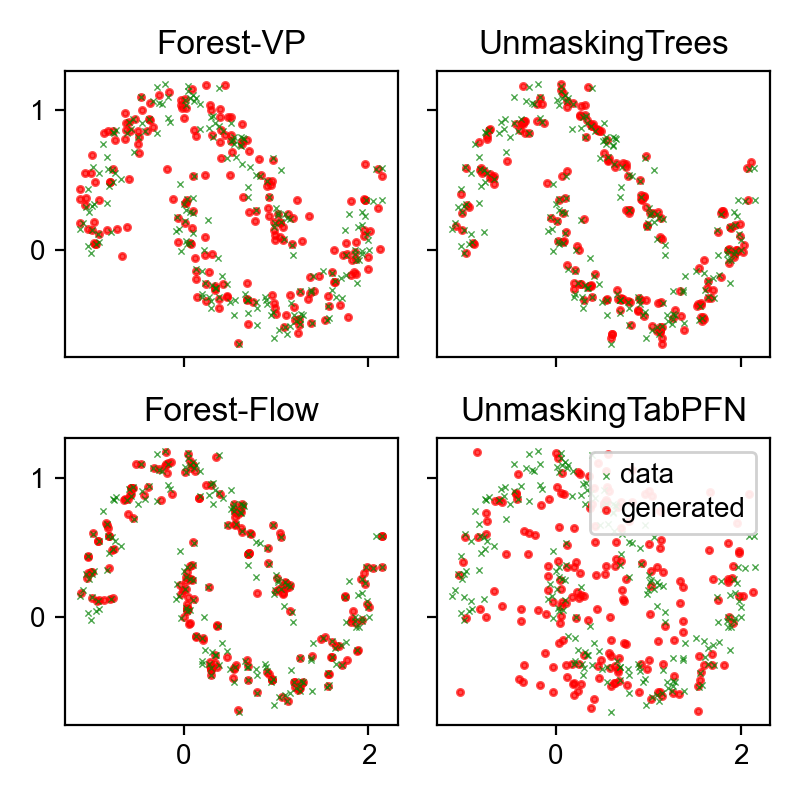
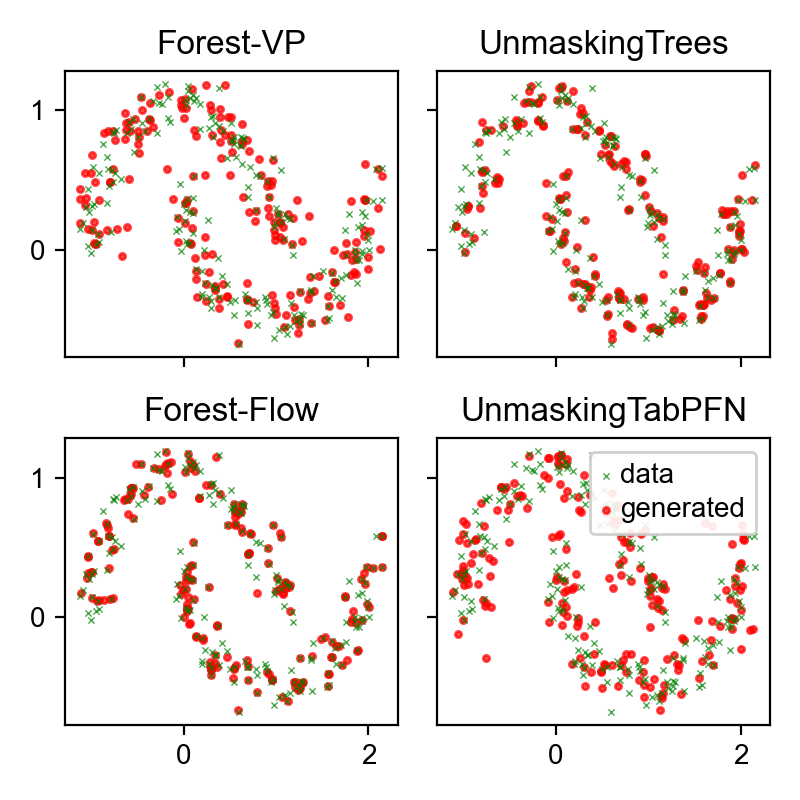
new moons with TabPFN improved

diff --git a/README.md b/README.md
@@ -2,6 +2,7 @@
 
 [![PyPI version](https://badge.fury.io/py/utrees.svg)](https://badge.fury.io/py/utrees)
 [![Downloads](https://static.pepy.tech/badge/utrees)](https://pepy.tech/project/utrees)
+[![Code style: black](https://img.shields.io/badge/code%20style-black-000000.svg)](https://github.com/psf/black)
 
 UnmaskingTrees is a method for tabular data generation and imputation. It's an order-agnostic autoregressive diffusion model, wherein a training dataset is constructed by incrementally masking features in random order. Per-feature gradient-boosted trees are then trained to unmask each feature. Read more about it in my [paper](https://arxiv.org/abs/2407.05593)!
 
